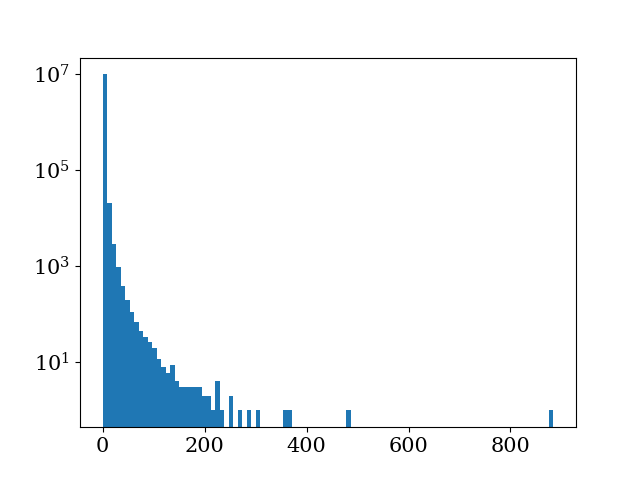
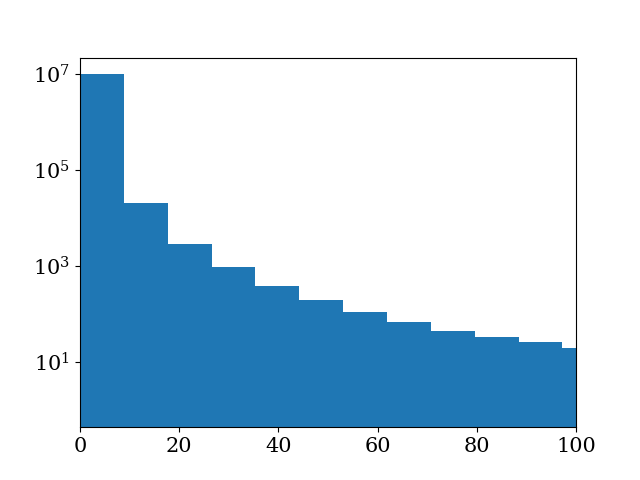
Adding probablity plots

Changed region(s): [[0.0938, 0.1562, 0.9375, 0.9375], [0.25, 0.9062, 0.3438, 0.9375]]

diff --git a/reweight.py b/reweight.py
@@ -5,8 +5,8 @@ import matplotlib.pyplot as plt
 import numpy as np
 from tqdm import tqdm
 
-from src.utils.funcs import get_vars_meta, rootfile_to_array
-from src.utils.plotting import plot_distribution
+from src.utils.funcs import get_vars_meta, rootfile_to_array, sigmoid
+from src.utils.plotting import plot_distribution, probability_plots
 from trained_bdt.genie_v3_10b import GENIEv3_10b_BDT
 
 # Parse arguments
@@ -88,24 +88,23 @@ def predict_weights(filename):
             # Get weights      
             weights = calculate_weights(y_hat)
             weights_list.append(weights)
-            probas_list.append(y_hat)
+            probas_list.append(sigmoid(y_hat))
         
         # Save the nominal file
         nominal_list.append(nominal)
         
         # After iterating through create weight files
         weights = np.hstack(weights_list)
-        probas = np.vstack(probas_list)
+        probas = np.hstack(probas_list)
         nominal = np.vstack(nominal_list)
     return weights, probas, nominal
 
 # Get weights for nominal array
 weights, probas_nominal, nominal = predict_weights(v2_filename)
-
-# Get target array
-target = np.vstack([rootfile_to_array(filename) for filename in glob.glob(v3_filename)])
+_, probas_target, target = predict_weights(v3_filename)
 
 plt.hist(weights, bins=100)
+plt.xlim(0, 100)
 plt.yscale('log')
 plt.savefig(f"saved_plots/hist.png")
 
@@ -113,7 +112,5 @@ figsize = (12, 10)
 many_bins = 100
 vars_meta = get_vars_meta(many_bins)
 make_plots(nominal, target, weights, vars_meta, figsize)
-
-
-
-
+probability_plots(probas_nominal, probas_target)
+plt.savefig('saved_plots/Probability.png')
